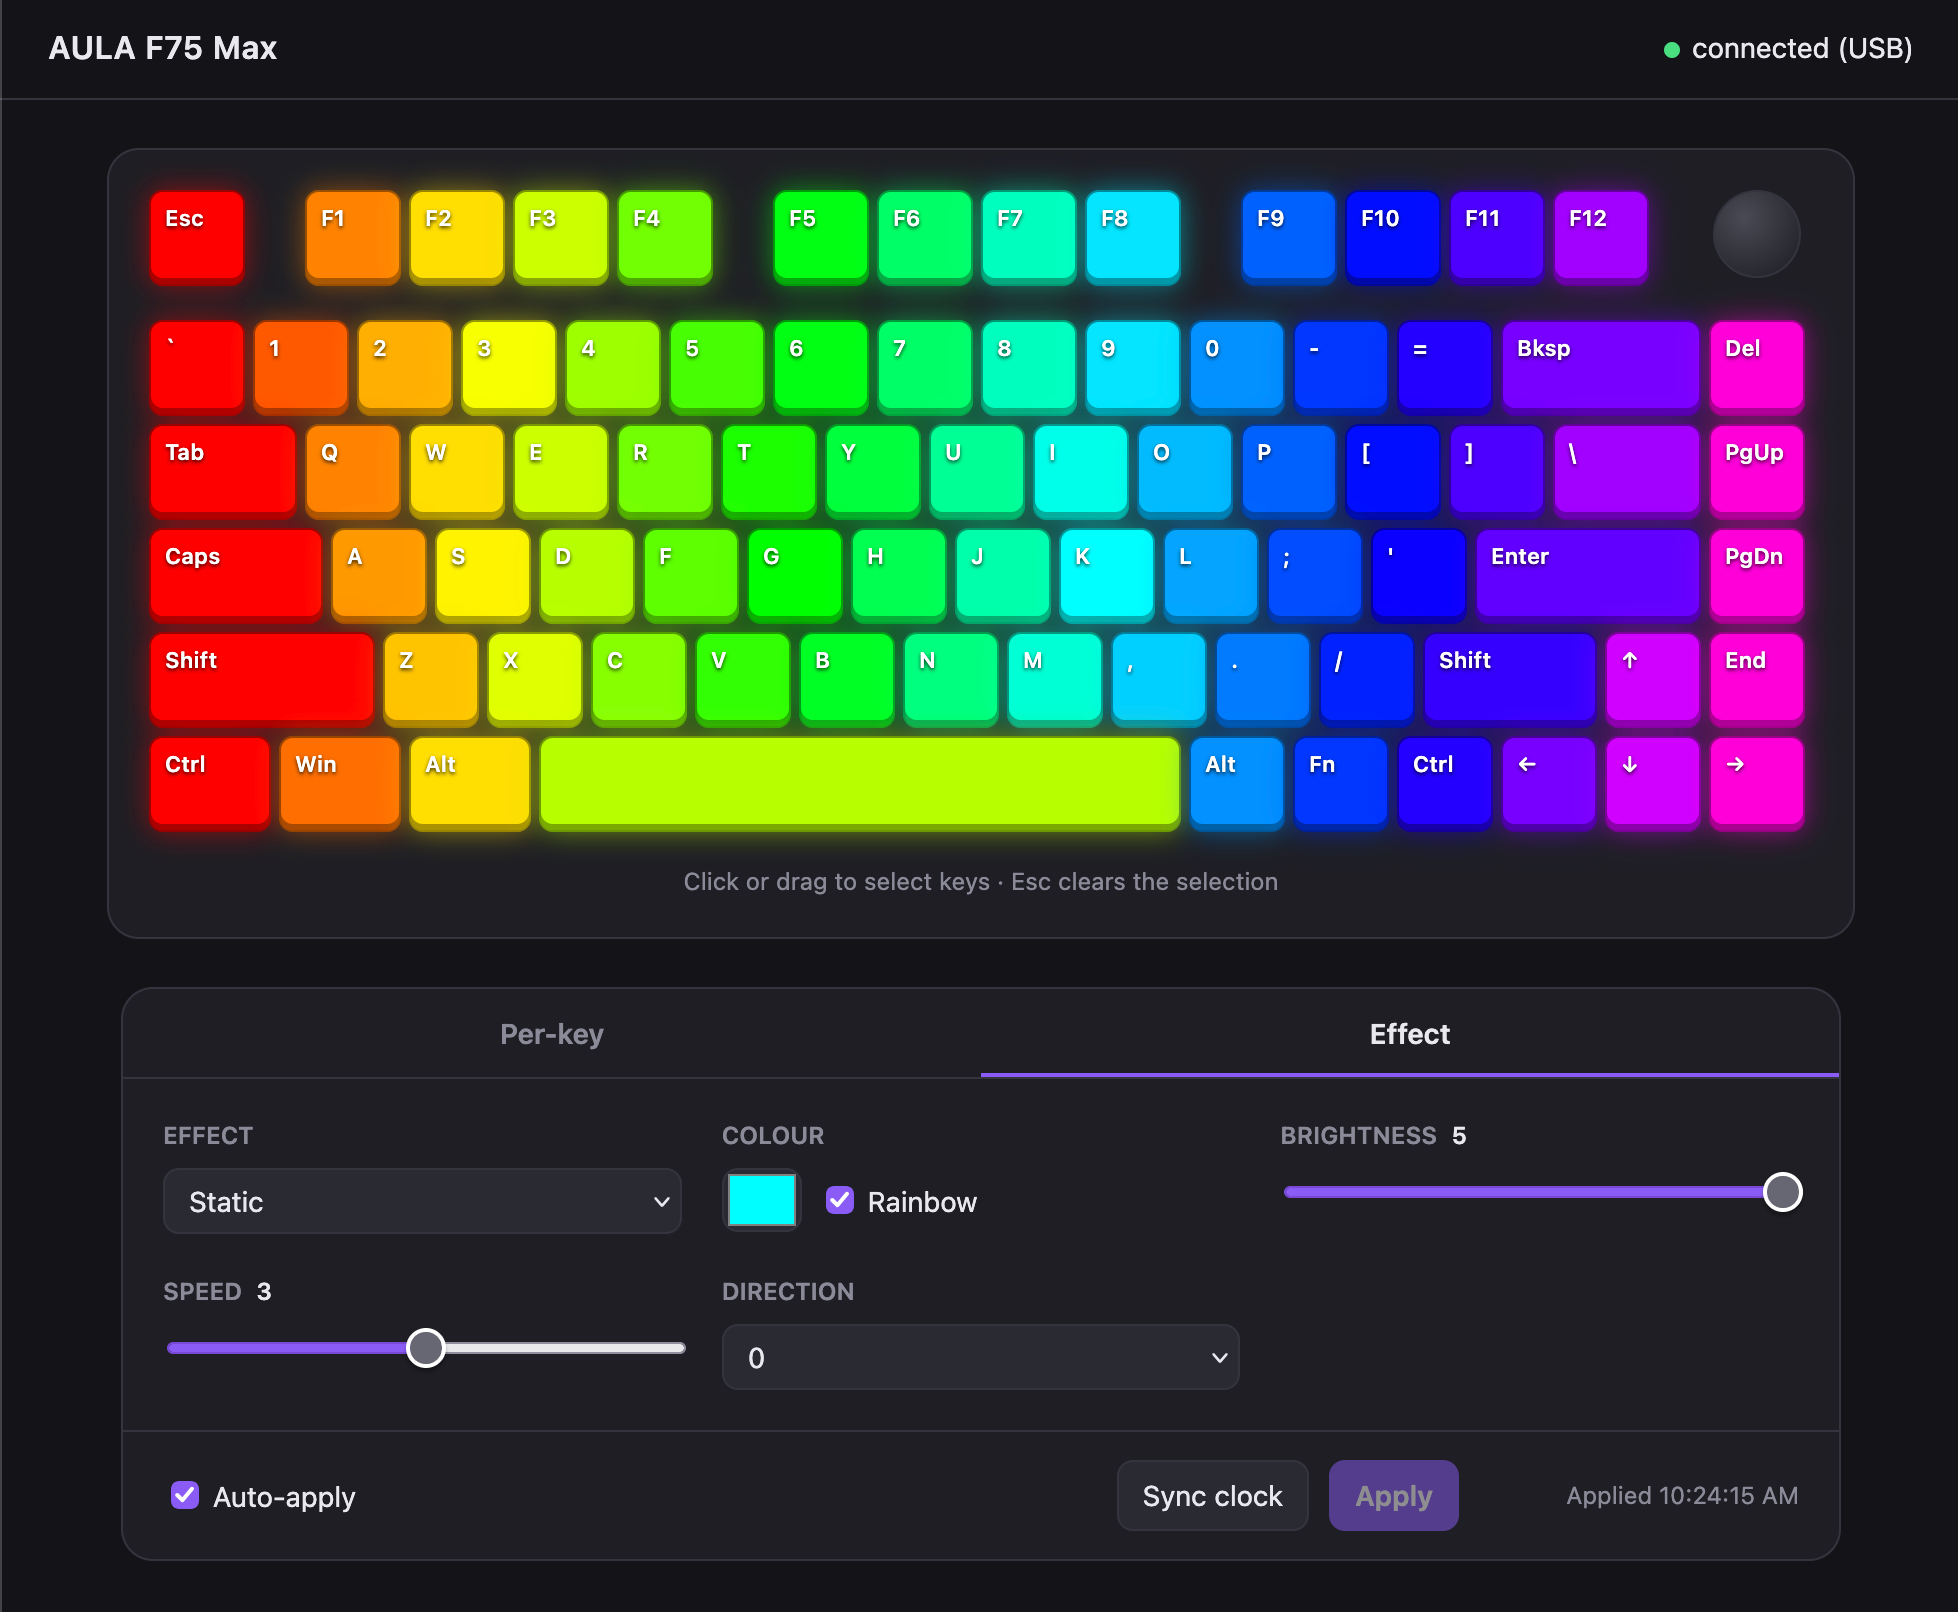
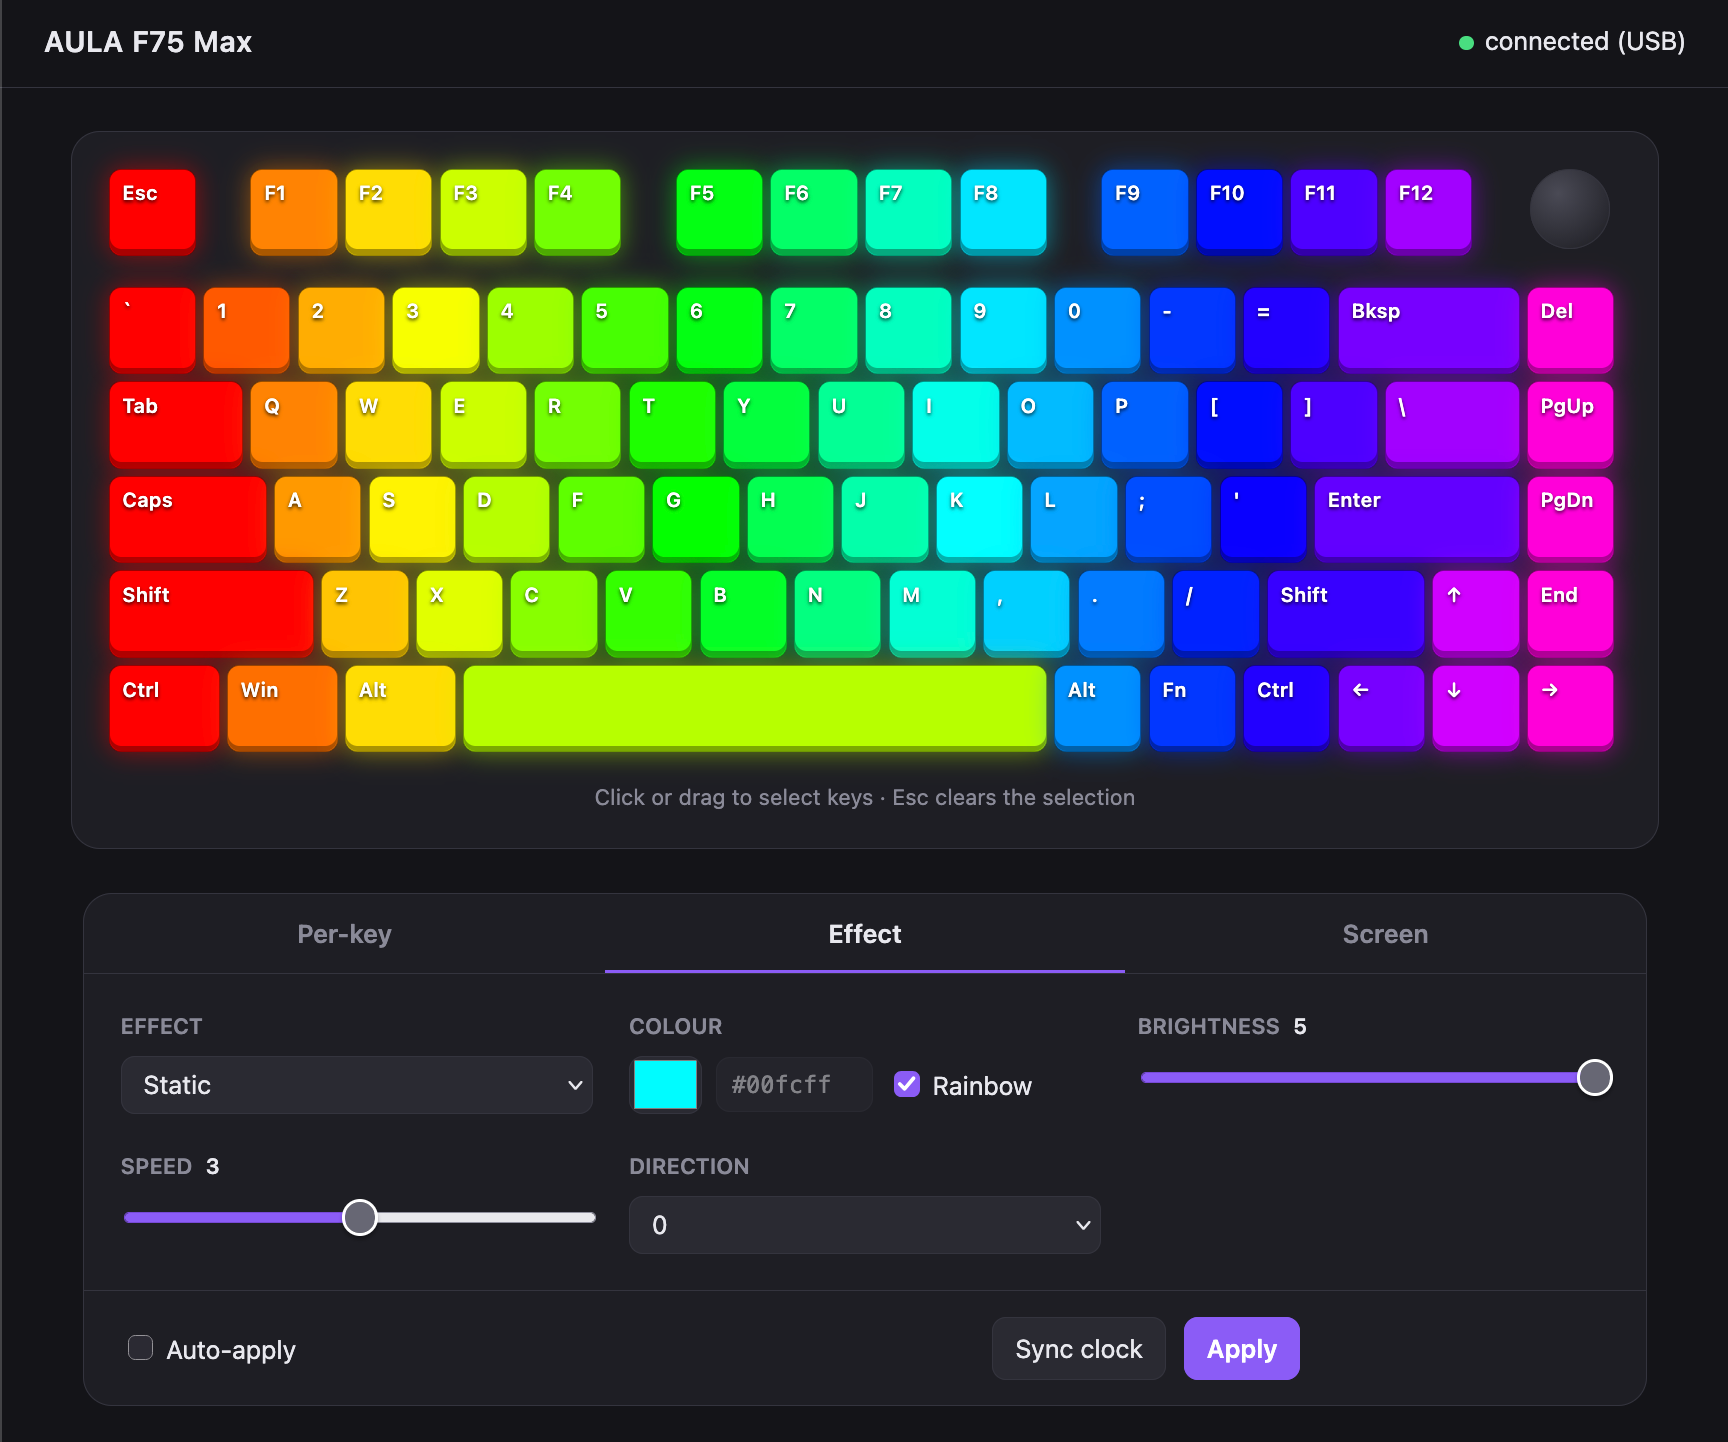
docs: update screenshots and add screen tab image

diff --git a/README.md b/README.md
@@ -13,6 +13,8 @@ You can:
 
 ![Built-in effects in the web control panel](assets/Effect%20Selection.png)
 
+![Screen image upload in the web control panel](assets/Screen%20Selection.png)
+
 ## Requirements
 
 - [uv](https://docs.astral.sh/uv/). Both scripts declare their own dependencies, and `uv` installs them on first run.
